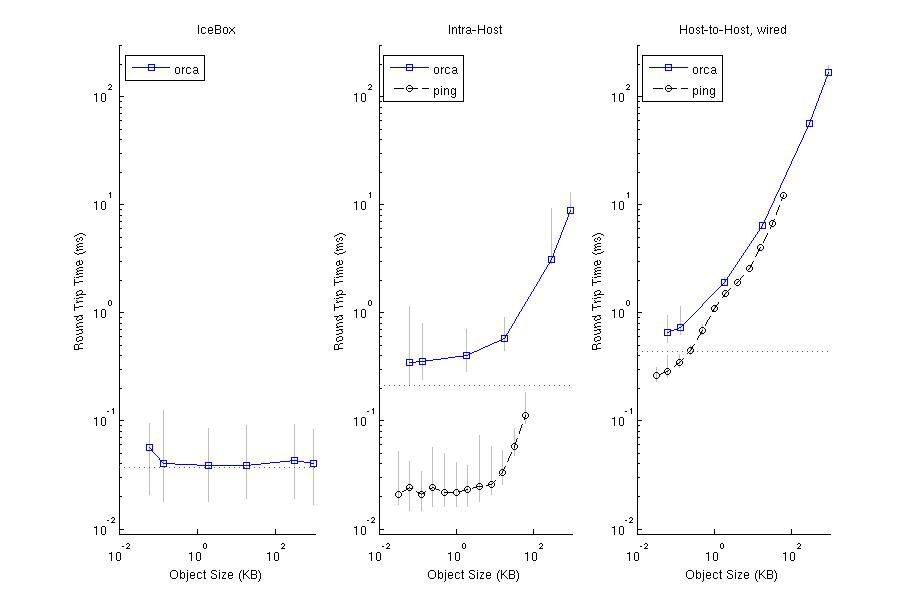
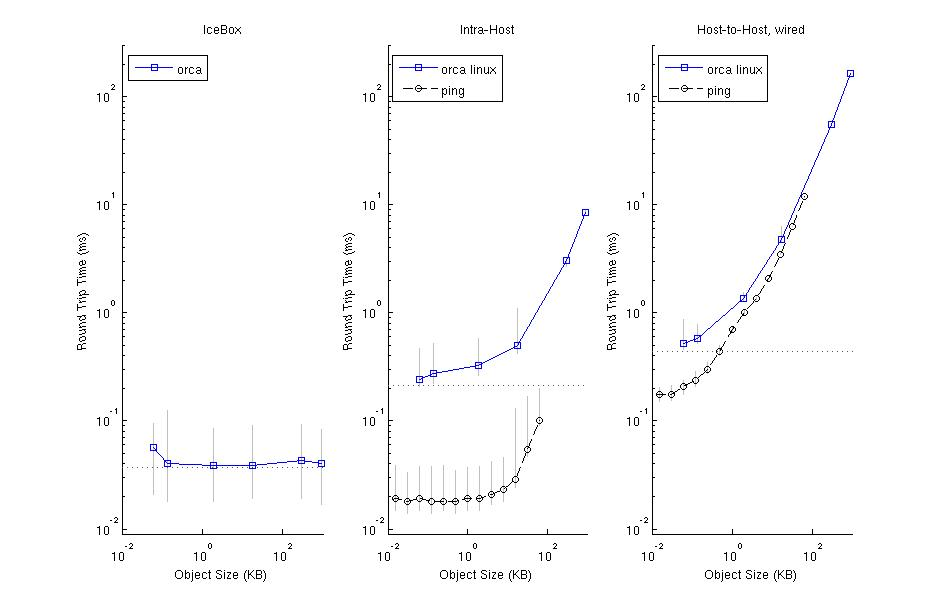
missing win data but ready for release.
git-svn-id: https://orca-robotics.svn.sf.net/svnroot/orca-robotics/orca/trunk@996 534d5172-be3c-0410-9a3e-ccaa6372a113

diff --git a/scripts/matlab/latencies.m b/scripts/matlab/latencies.m
@@ -44,7 +44,8 @@ D1oWW= load( 'pingdata/samehost_win.dat' );  % orca2 Win-Win
 
 %  figure(11),clf
 subplot(132)
-h=pingplot( D1oLL4,'b--s', D1oLL,'b-s', D1oWW,'g-^', D1p,'k--o' );
+h=pingplot( D1oLL,'b-s', D1p,'k--o' );
+%  h=pingplot( D1oLL,'b-s', D1oWW,'g-^', D1p,'k--o' );
 set(gca,'xscale','log')
 set(gca,'yscale','log')
 xlim(xscale)
@@ -52,7 +53,8 @@ ylim(yscale)
 mark('y', 0.21488 );
 ylabel( 'Round Trip Time (ms)' )
 xlabel( 'Object Size (KB)' )
-legend( h, 'orca rc4', 'orca lin', 'orca win', 'ping', 'location', 'northwest');
+legend( h, 'orca linux', 'ping', 'location', 'northwest');
+%  legend( h, 'orca linux', 'orca win', 'ping', 'location', 'northwest');
 title('Intra-Host' ) %, 101 objects, interval=0.25s, preload=1')
 wp=get(gcf,'position'); set(gcf,'position', [wp(1:2) 750 600])
 
@@ -66,7 +68,8 @@ D2oWW= load( 'pingdata/twohosts_winwin.dat' );  % orca2
 
 %  figure(12),clf
 subplot(133)
-h=pingplot( D2oLL,'b-s', D2oWW,'g-^', D2oLW,'m-d', D2p,'k--o' );
+h=pingplot( D2oLL,'b-s', D2p,'k--o' );
+%  h=pingplot( D2oLL,'b-s', D2oWW,'g-^', D2oLW,'m-d', D2p,'k--o' );
 set(gca,'xscale','log')
 set(gca,'yscale','log')
 xlim(xscale)
@@ -74,7 +77,8 @@ ylim(yscale)
 mark('y', 0.43911 );
 ylabel( 'Round Trip Time (ms)' )
 xlabel( 'Object Size (KB)' )
-legend( h, 'orca linux', 'orca win', 'orca mix', 'ping', 'location', 'northwest');
+legend( h, 'orca linux', 'ping', 'location', 'northwest');
+%  legend( h, 'orca linux', 'orca win', 'orca mix', 'ping', 'location', 'northwest');
 title('Host-to-Host, wired') %, 101 objects, interval=0.25s, preload=1')
 wp=get(gcf,'position'); set(gcf,'position', [wp(1:2) 750 600])
 
